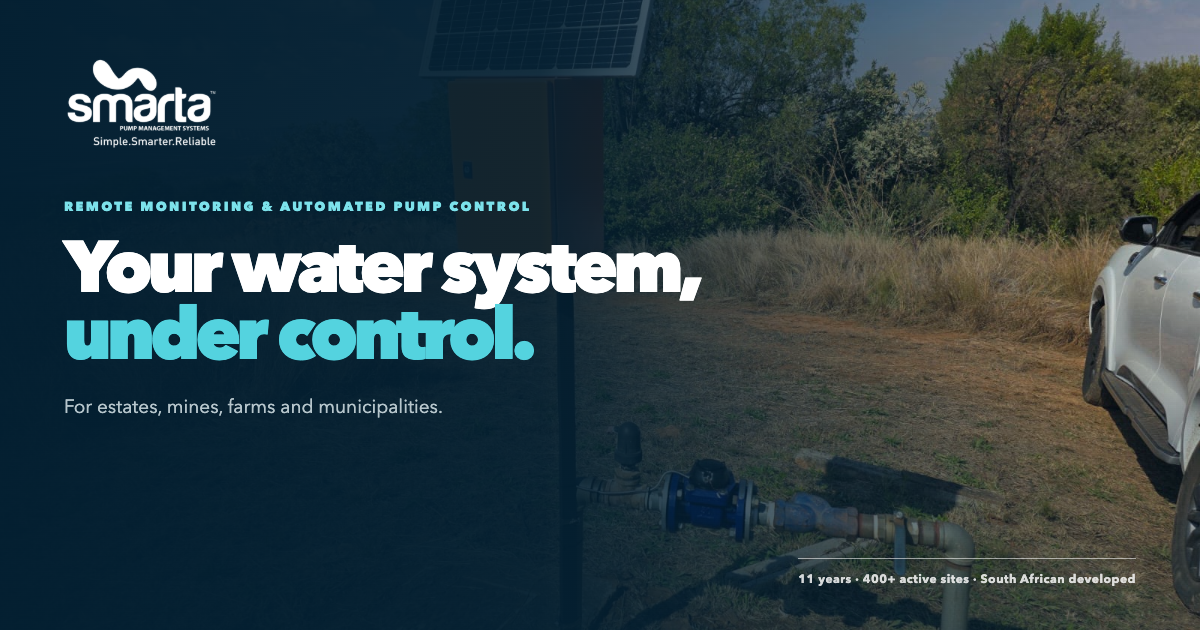
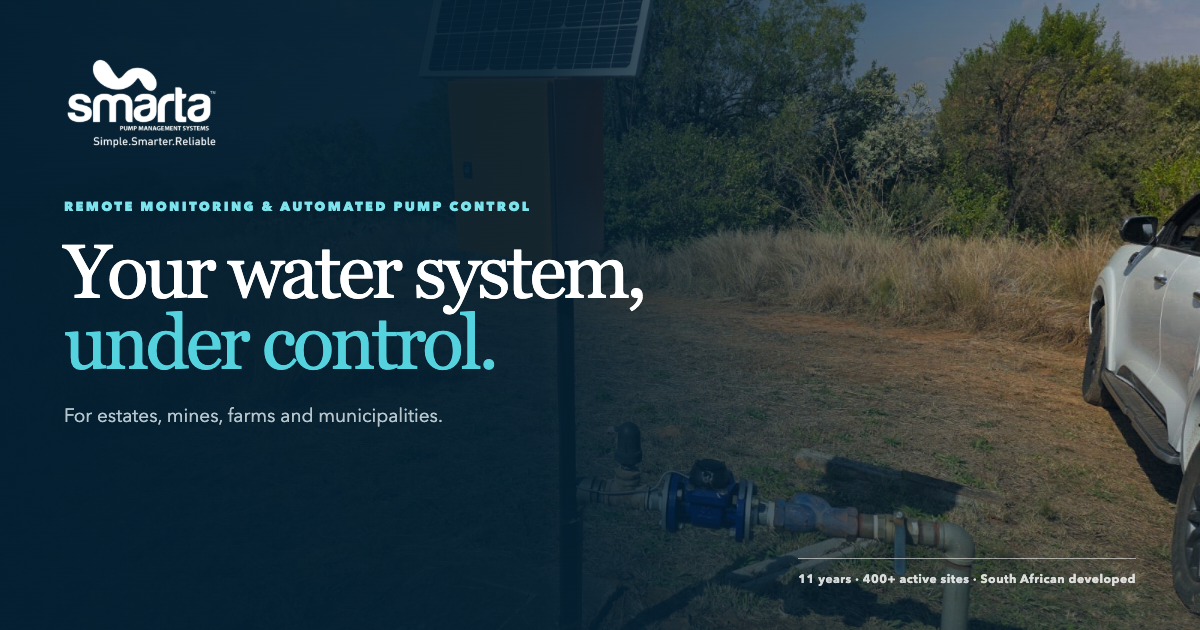
Refine Smarta typography and documents page

Changed region(s): [[0.0308, 0.3619, 0.5858, 0.6032], [0.0308, 0.6333, 0.37, 0.6937]]

diff --git a/styles.css b/styles.css
@@ -4571,3 +4571,95 @@ a {
     grid-auto-rows: 205px;
   }
 }
+
+/* Typography refinement: editorial headlines, practical interface text. */
+
+:root {
+  --font-display: Georgia, "Times New Roman", serif;
+  --font-body: "Helvetica Neue", Helvetica, Arial, sans-serif;
+}
+
+.hero h1,
+.sector-intro h2,
+.section-heading h2,
+.field-copy h2,
+.app-copy h2,
+.about-grid h2,
+.faq-intro h2,
+.contact-grid h2,
+.mid-page-cta h2,
+.not-found h1,
+.subpage-hero h1,
+.resource-heading h2,
+.subpage-cta h2,
+.online-preview-copy h3 {
+  font-family: var(--font-display);
+  font-weight: 400;
+  letter-spacing: -0.045em;
+}
+
+.hero h1 {
+  font-size: clamp(4.5rem, 6.5vw, 6.65rem);
+  line-height: 0.94;
+}
+
+.section-heading h2,
+.field-copy h2,
+.app-copy h2,
+.about-grid h2,
+.faq-intro h2,
+.contact-grid h2 {
+  font-size: clamp(3rem, 4.5vw, 4.7rem);
+  line-height: 1;
+}
+
+.sector-intro h2 {
+  font-size: clamp(3.5rem, 5.45vw, 6rem);
+  line-height: 0.99;
+}
+
+.mid-page-cta h2 {
+  line-height: 1;
+}
+
+.sector-card h3,
+.capability-card h3,
+.solution-card h3,
+.process-grid h3,
+.about-values strong,
+.gallery-card figcaption strong,
+.service-list strong,
+.contact-primary,
+.resource-card h3,
+.resource-help h3,
+.legal-content h2 {
+  font-family: var(--font-body);
+}
+
+.sector-card h3,
+.capability-card h3,
+.solution-card h3,
+.process-grid h3,
+.about-values strong,
+.gallery-card figcaption strong,
+.service-list strong {
+  letter-spacing: -0.025em;
+}
+
+@media (max-width: 700px) {
+  .hero h1 {
+    font-size: clamp(3.55rem, 15.5vw, 4.65rem);
+    line-height: 0.95;
+  }
+
+  .sector-intro h2,
+  .section-heading h2,
+  .field-copy h2,
+  .app-copy h2,
+  .about-grid h2,
+  .faq-intro h2,
+  .contact-grid h2 {
+    font-size: clamp(2.8rem, 12.5vw, 3.8rem);
+    line-height: 0.99;
+  }
+}

diff --git a/resources/index.html b/resources/index.html
@@ -49,11 +49,6 @@
 
       <section class="section resource-section">
         <div class="container">
-          <div class="archive-notice" role="note">
-            <span aria-hidden="true">!</span>
-            <div><strong>Archive notice</strong><p>These files were published in 2018 and may not describe current hardware, firmware or installation practice. Do not use the legacy manual for new field work without confirming the latest approved revision with Smarta.</p></div>
-          </div>
-
           <div class="resource-heading">
             <div><p class="eyebrow"><span></span> Technical</p><h2>Installation reference</h2></div>
             <p>For installers and technical partners reviewing the original controller and commissioning approach.</p>

diff --git a/assets/social-card-source.html b/assets/social-card-source.html
@@ -46,10 +46,11 @@
       h1 {
         max-width: 640px;
         margin: 0;
-        font-size: 72px;
-        font-weight: 750;
-        letter-spacing: -.065em;
-        line-height: .93;
+        font-family: Georgia, "Times New Roman", serif;
+        font-size: 76px;
+        font-weight: 400;
+        letter-spacing: -.045em;
+        line-height: .94;
       }
       h1 span { color: #54d3df; }
       p {
